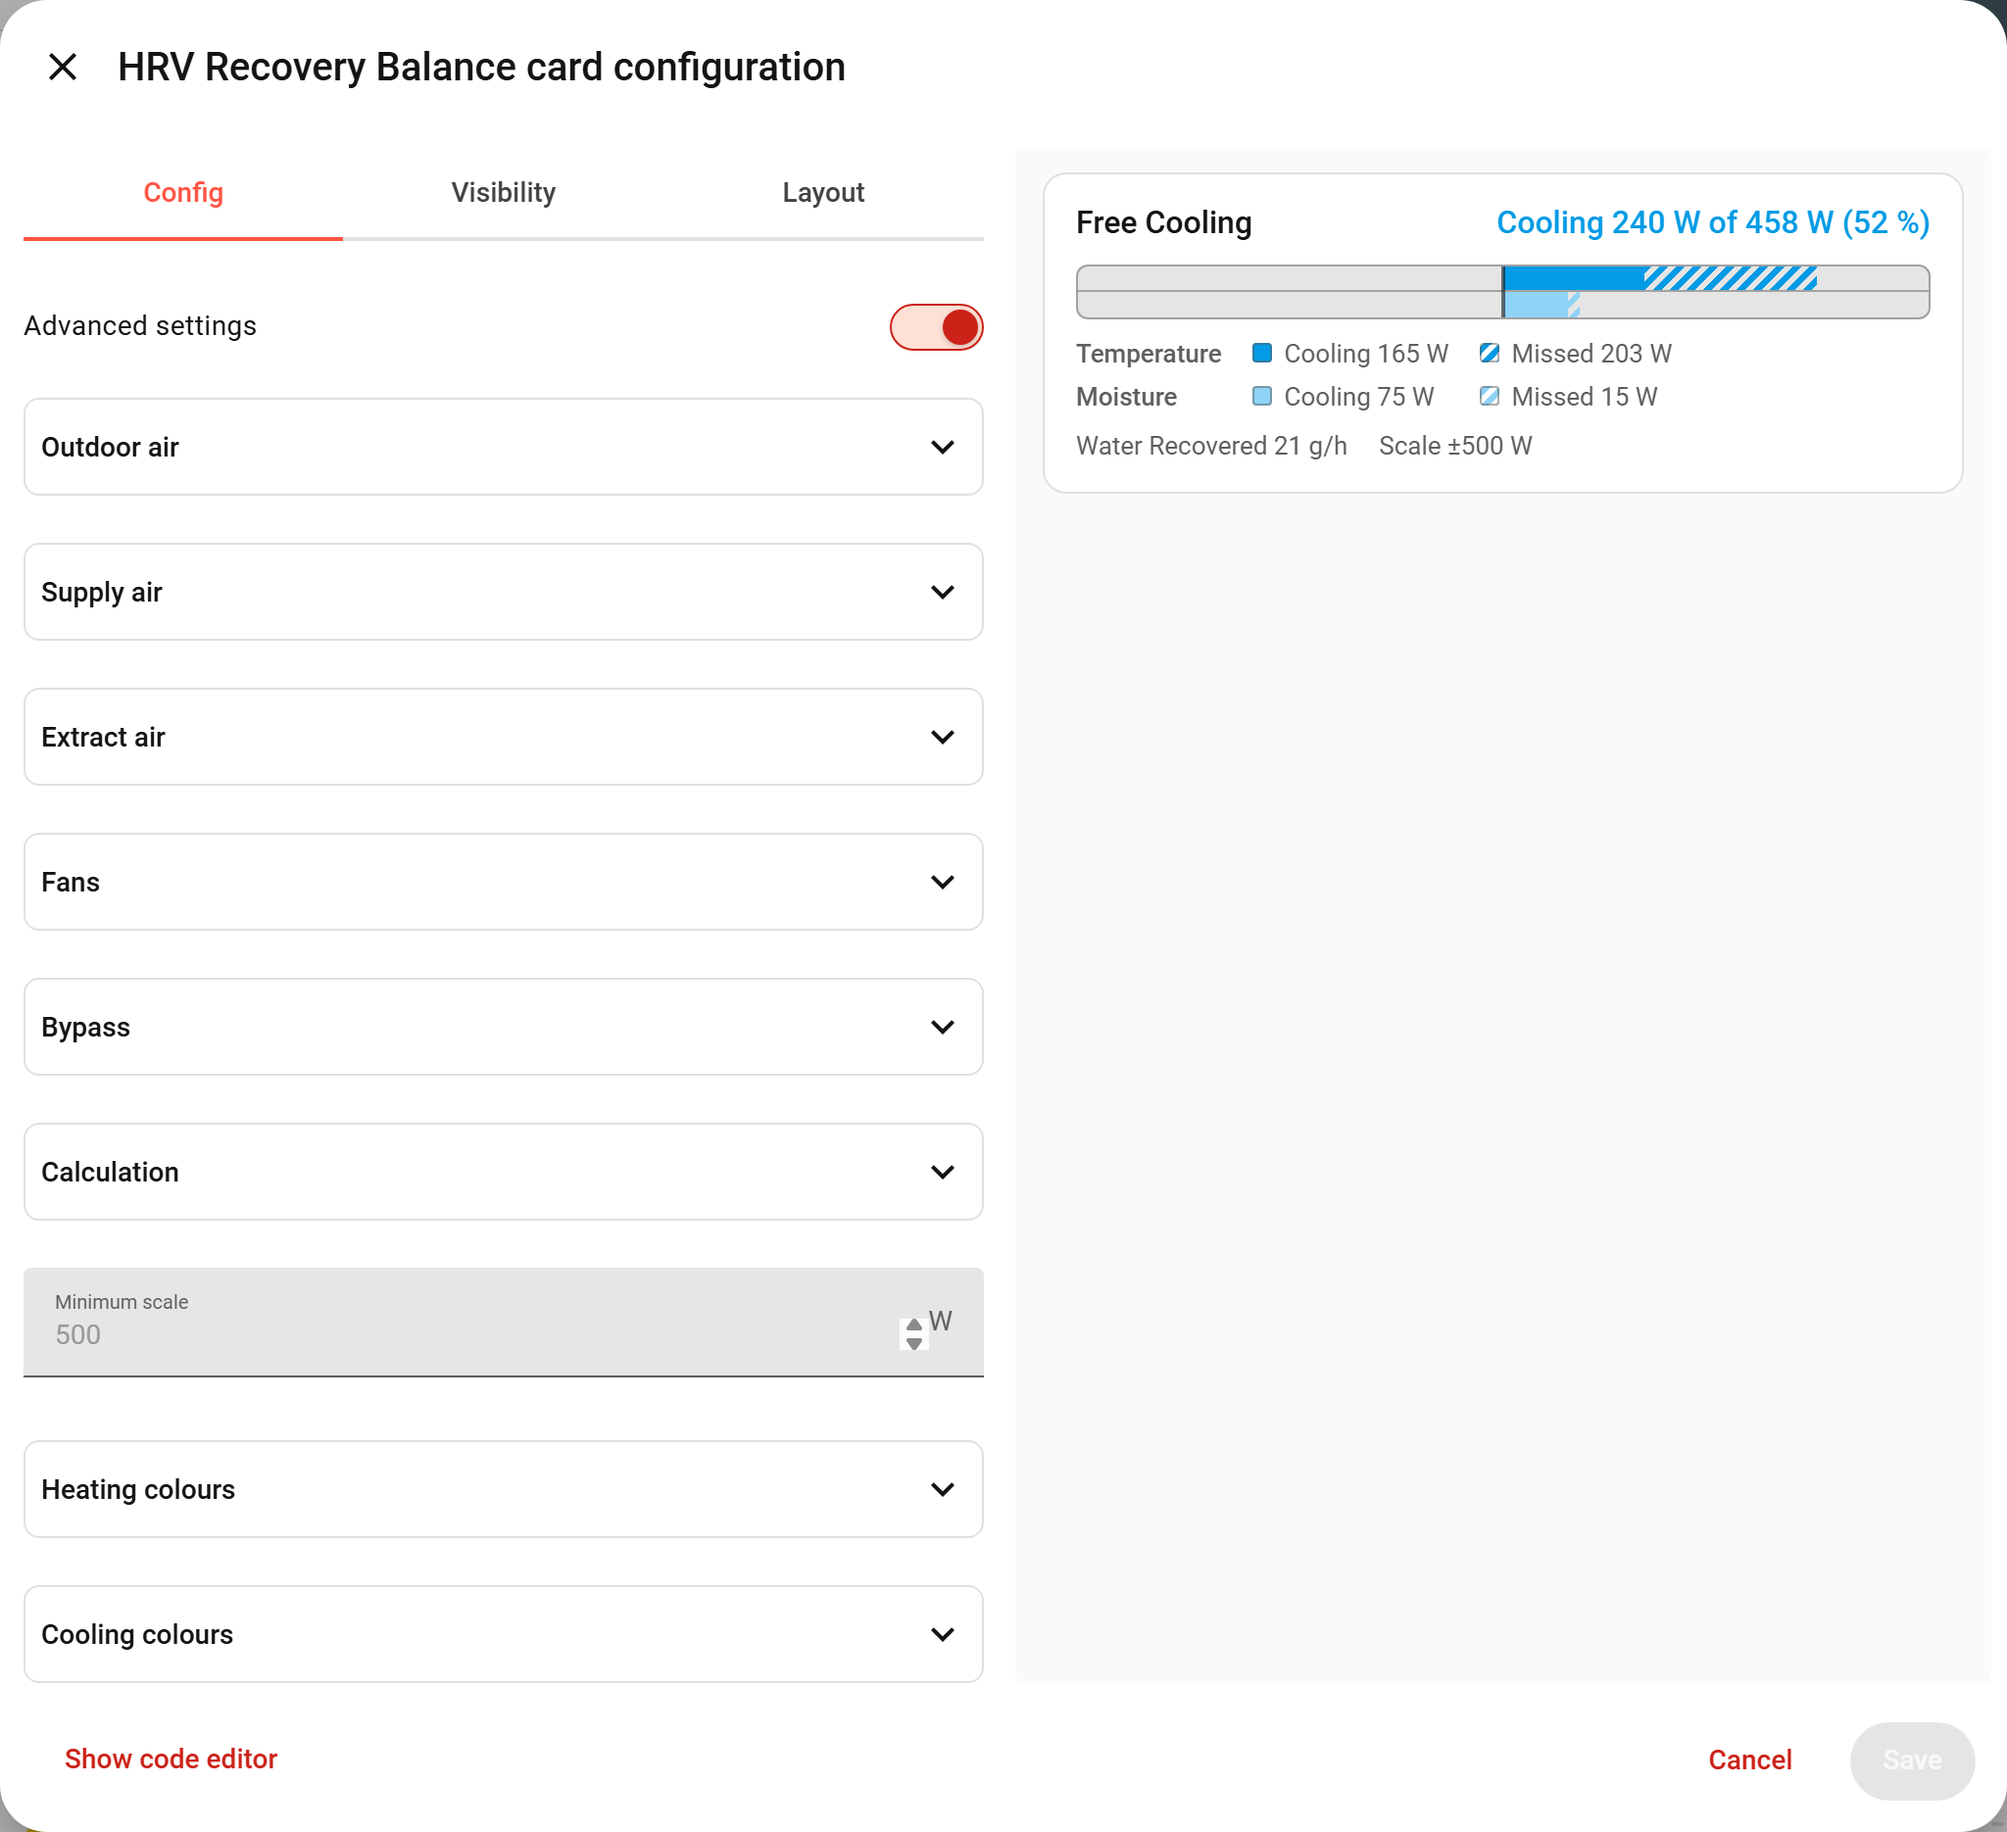
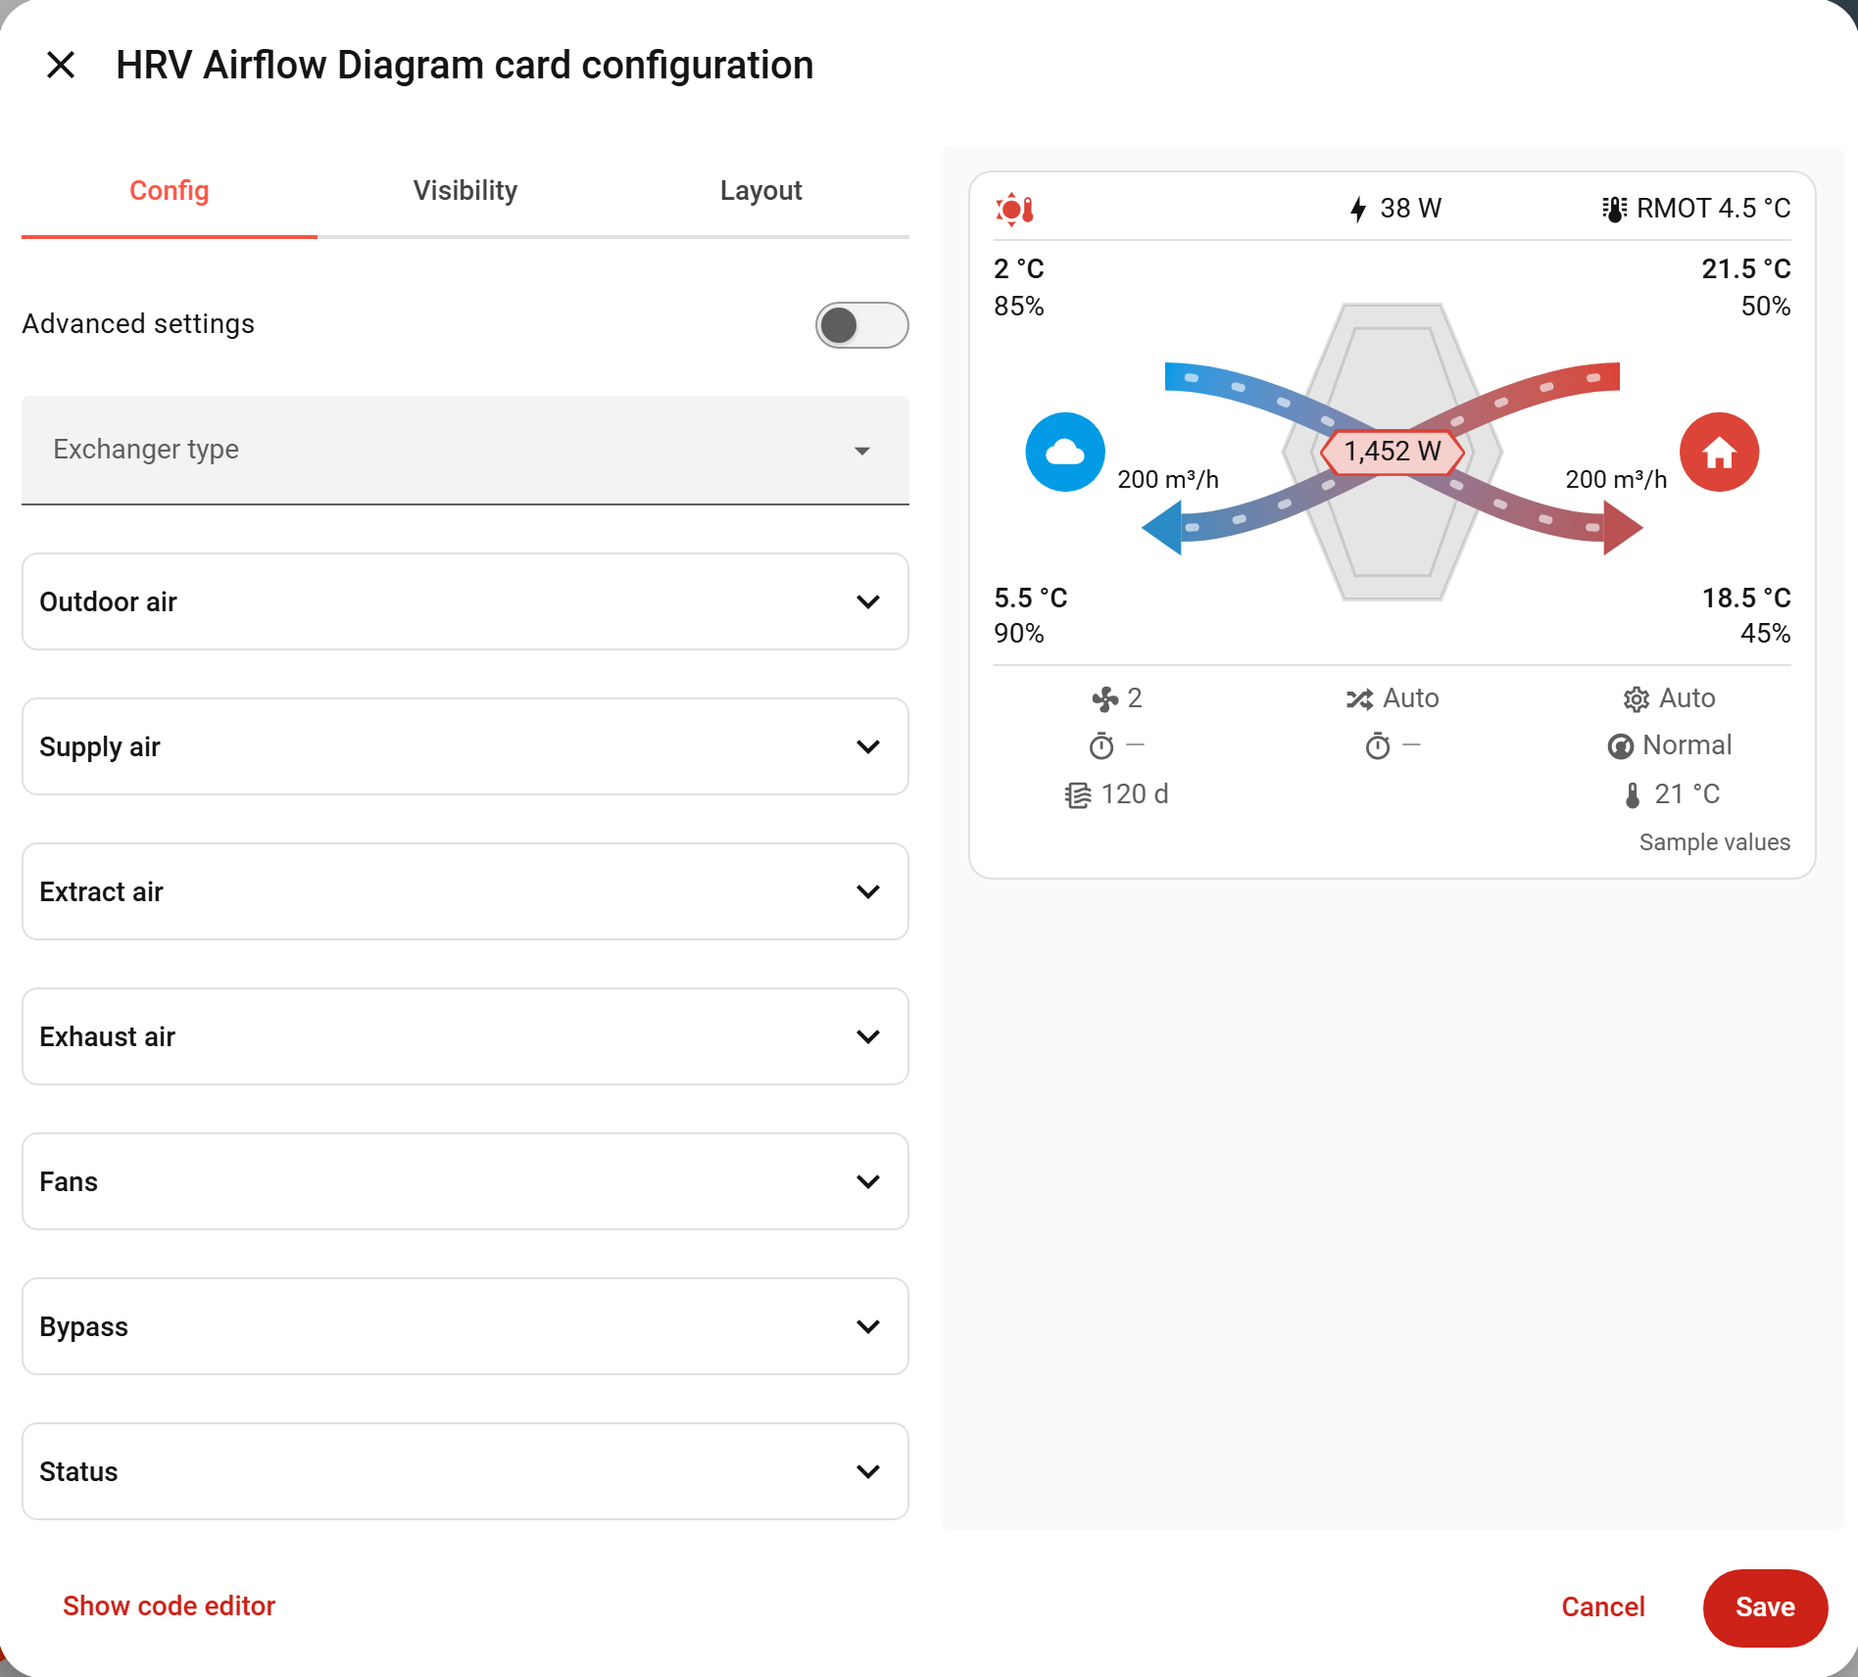
Live editor and card picker screenshots (task 6.1)

diff --git a/README.md b/README.md
@@ -76,6 +76,9 @@ helps a browser that still shows it.
 2. Search for "HRV" and pick **HRV Airflow Diagram**, **HRV Recovery Balance** or **HRV Moisture Balance**. The
    picker shows a rendered preview of each card. A new card starts with an empty config and shows sample
    values until you pick a sensor (see [Sample values](#sample-values)).
+
+   ![The Add card picker listing the three cards, each with a sample preview](docs/images/card-picker.png)
+
 3. Open each group (outdoor air, supply air, extract air, fans, bypass, ...) and pick your unit's sensors.
    The preview updates as you go.
 4. Turn on **Advanced settings** for the less common options, marked "Advanced" in [Options](#options): for
@@ -84,7 +87,7 @@ helps a browser that still shows it.
    advanced option set.
 5. Save. **Show code editor** shows the same config as YAML; see [Options](#options) and [Examples](#examples).
 
-![The visual editor of the recovery balance card, with its groups collapsed and the live preview](docs/images/editor.png)
+![The visual editor of the airflow diagram card, with the exchanger type first, its groups collapsed and the live sample preview](docs/images/editor.png)
 
 ### Sample values
 
@@ -560,7 +563,7 @@ npm run capture                  # README images of the three cards from the pre
 with Playwright and writes the diagram in light and dark theme, the compact layout and on an ERV, the recovery bar,
 the moisture bar and the animated GIF of the bypass opening and closing (encoded in Node with `gifenc`, at most
 3 MB). The mock states keep installation identifiers out of view. Two images are taken by hand from a live
-dashboard: `editor.png` (the visual editor) and the card picker screenshot; check them for entity IDs with a device
+dashboard: `editor.png` (the diagram card's visual editor, opened from the card picker so no sensor is chosen) and `card-picker.png`; check them for entity IDs with a device
 serial and for host names before committing.
 
 Only `npm run release` writes `dist/`; `npm run build` writes `build/`, so a work-in-progress bundle cannot end up

diff --git a/openspec/changes/v0-2-card-improvements/tasks.md b/openspec/changes/v0-2-card-improvements/tasks.md
@@ -96,14 +96,12 @@
 
 ## 6. Release and live migration
 
-- [ ] 6.1 Retake the README images with `npm run capture`, including an ERV image of the diagram card and the
+- [x] 6.1 Retake the README images with `npm run capture`, including an ERV image of the diagram card and the
   recovery bar without the water entry, taken in heating mode (the most used) instead of the free cooling scenario,
   and add a card picker screenshot taken by hand on the live installation; verify every image the README links
   exists and shows the v0.2 behaviour
-  - Progress: `scripts/capture.mjs` takes the diagram (HRV light, dark, compact, GIF, ERV) and both bar images from
-    the preview page (92fb481). The recovery bar is now captured in heating mode (the "heating (winter)" scenario).
-    Still to do: retake `editor.png` and the card picker screenshot on the live installation after
-    6.3 deploys the v0.2 bundle.
+  - Done: `scripts/capture.mjs` takes the diagram (HRV light, dark, compact, GIF, ERV) and both bar images from
+    the preview page; `editor.png` and `card-picker.png` were taken by hand on the live installation (v0.2.0).
 - [x] 6.2 Set the version to `0.2.0` in `package.json`, run `npm run release` and commit `dist/`; verify
   `npm run release` and `npm run check` pass from a clean checkout and produce the committed bundle
 - [x] 6.3 Deploy `dist/` with the workspace's deploy script and bump the Lovelace resource `?v=`; verify with
